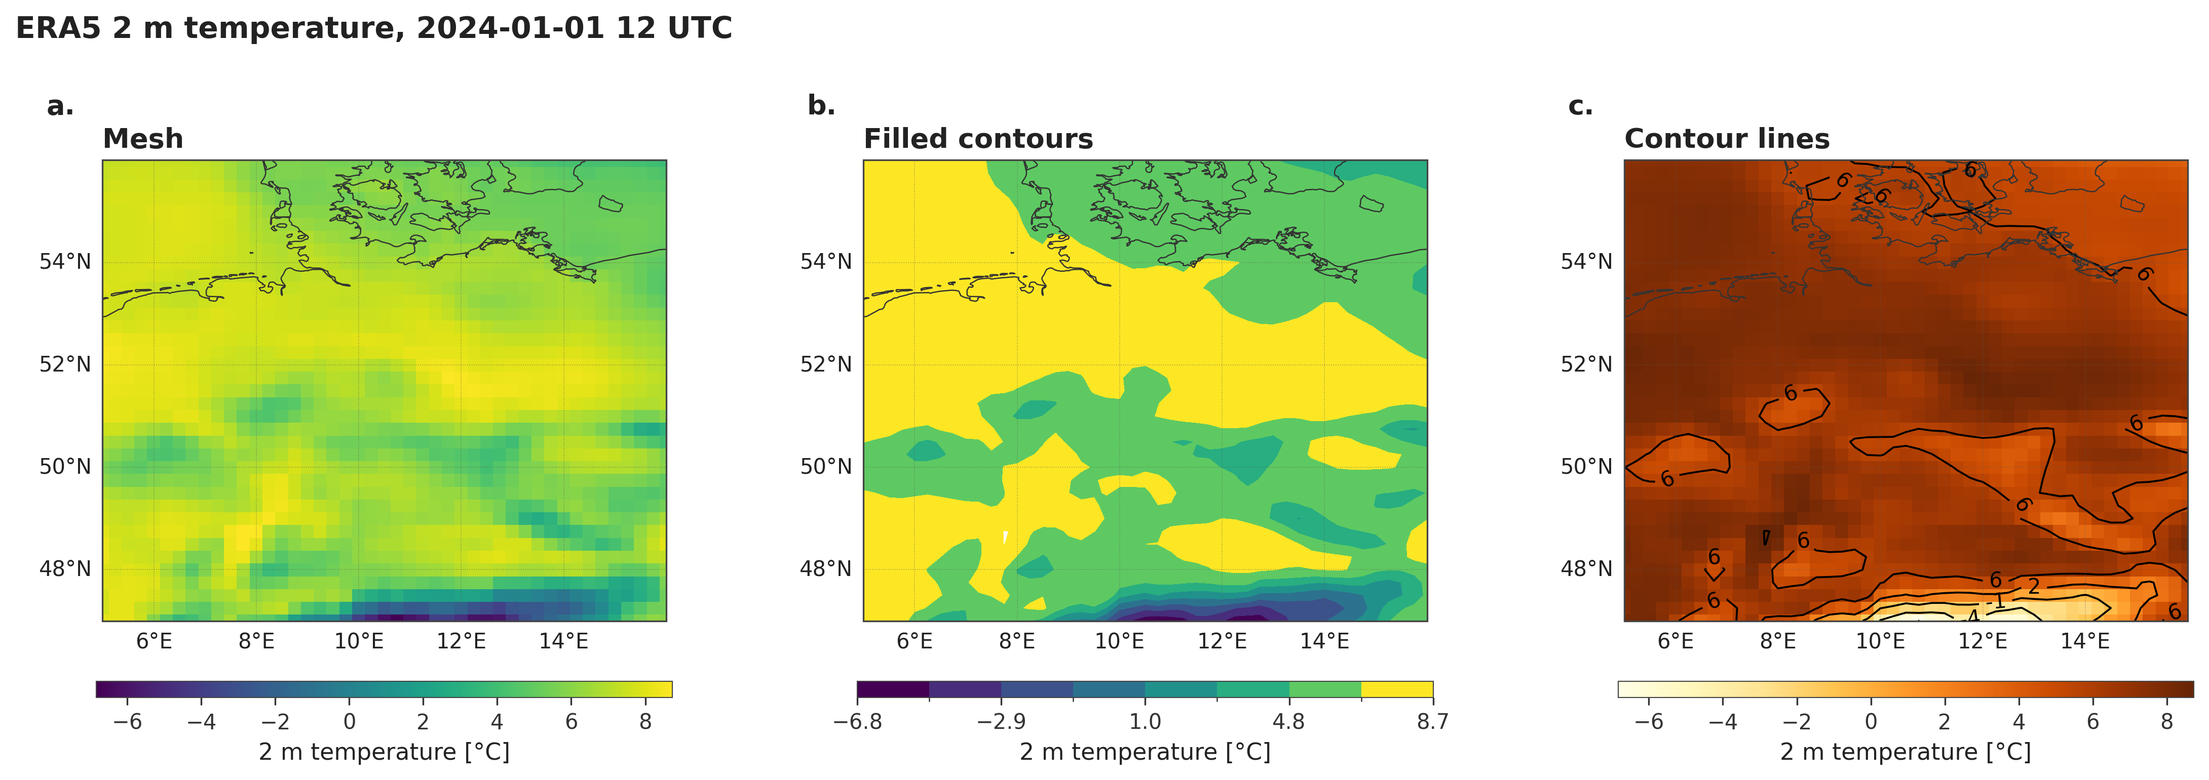
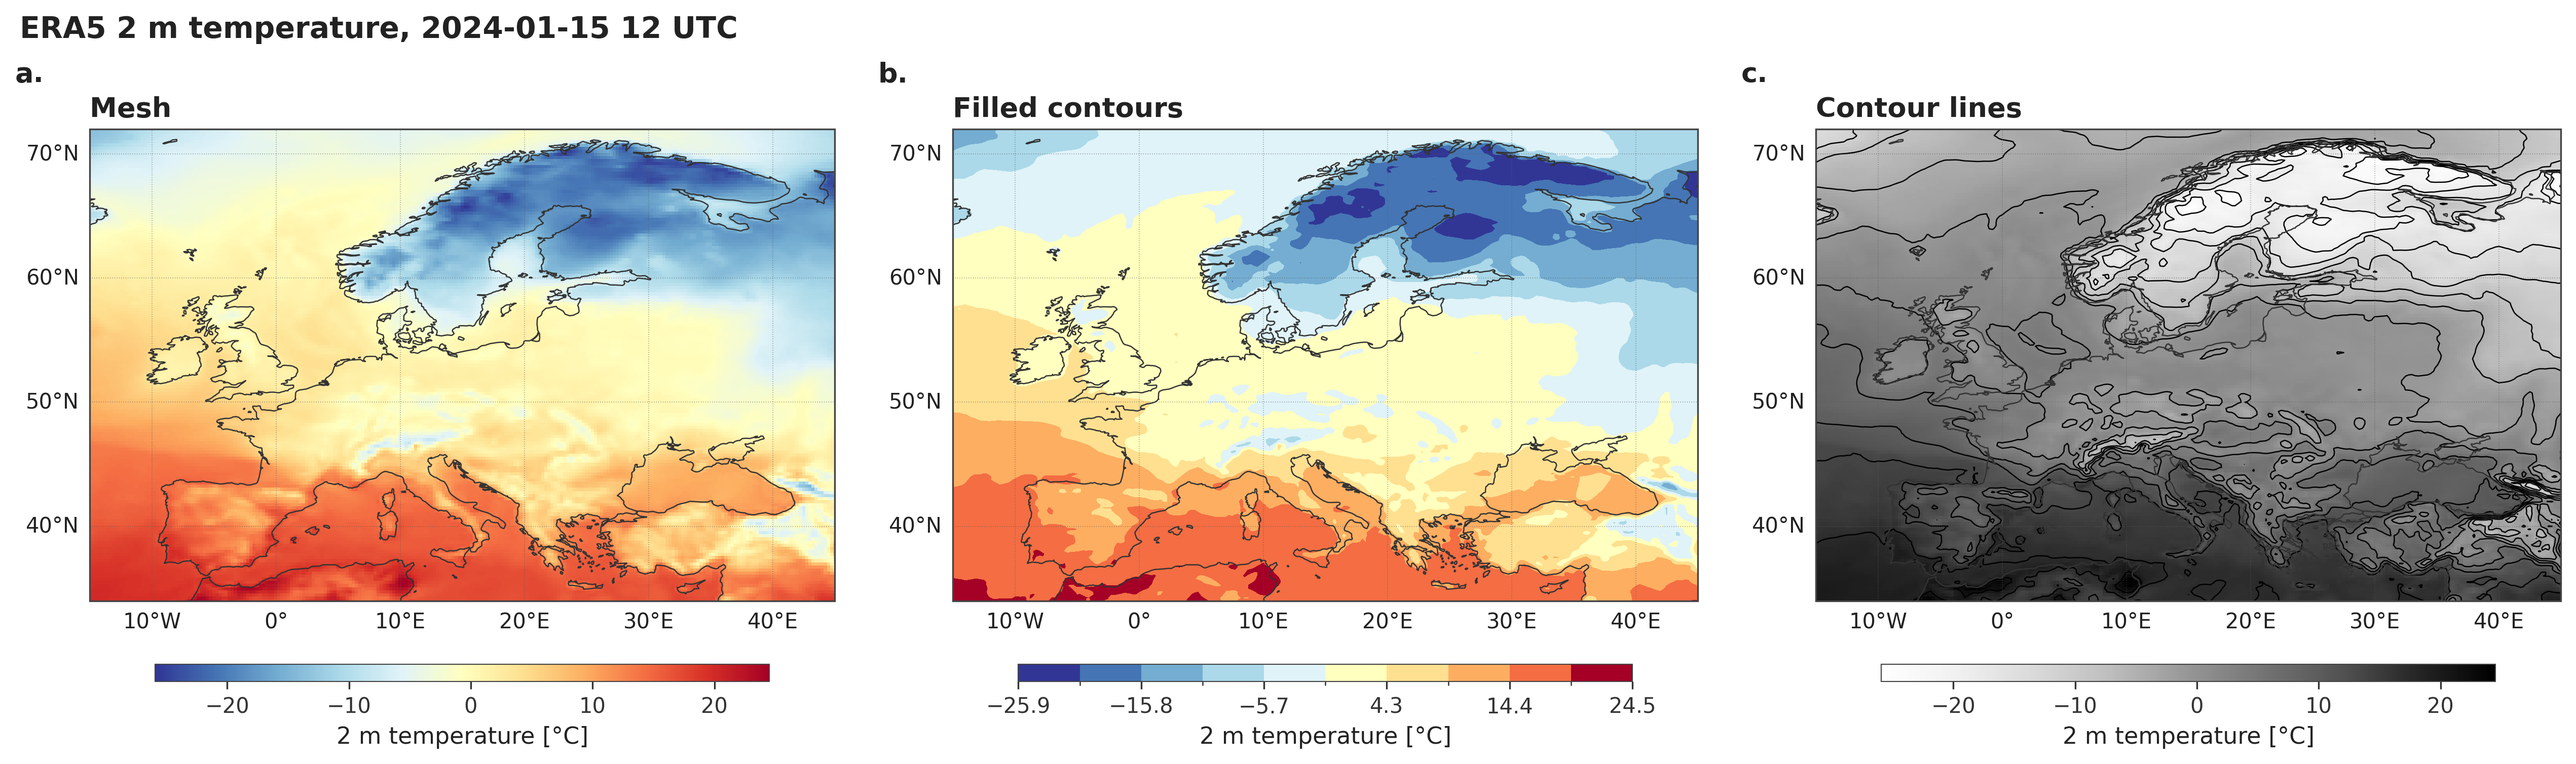
docs: update ERA5 examples for hourly Europe data, add precipitation and resolution examples

diff --git a/examples/common.py b/examples/common.py
@@ -1,21 +1,65 @@
-"""Shared helpers for the example scripts."""
-import sys
+"""Shared helpers for the example scripts: locate and load the ERA5 files.
+
+The data directory can be overridden with the ``ERA5_DATA`` environment
+variable; it must contain ``<variable>/<resolution>/europe/hourly`` folders.
+"""
+import os
 from pathlib import Path
 
 import xarray as xr
 
-DEFAULT_DATA = Path("/Users/fstrnad/projects/era5/data/era5_test.nc")
+DATA = Path(os.environ.get(
+    "ERA5_DATA", "/Users/fstrnad/projects/era5/data/era5-single-levels"))
 FIGURES = Path(__file__).parent / "figures"
 
+# short name -> (folder, unit conversion, new unit)
+VARIABLES = {
+    "t2m": ("2m_temperature", lambda da: da - 273.15, "°C"),
+    "tp": ("total_precipitation", lambda da: da * 1000, "mm"),
+}
+LONG_NAMES = {"t2m": "2 m temperature", "tp": "Hourly precipitation"}
 
-def load_t2m(path=None):
-    """2 m temperature in degC as a lat/lon DataArray (geoutils' coordinate names).
 
-    The data path can be given as the first command line argument.
+def months(var, resolution="0.25deg"):
+    """Months (1-12) of 2024 that are completely downloaded.
+
+    A file counts once its ``.sig.json`` marker exists, so a download that is
+    still running never hands us a half-written file.
     """
-    path = Path(path or (sys.argv[1] if len(sys.argv) > 1 else DEFAULT_DATA))
-    da = xr.open_dataset(path)["t2m"].squeeze(drop=True)
-    da = da.rename(latitude="lat", longitude="lon") - 273.15
-    da.attrs["units"] = "°C"
-    da.name = "2 m temperature"
-    return da.sortby("lat")
+    folder = DATA / VARIABLES[var][0] / resolution / "europe" / "hourly"
+    return sorted(int(p.stem[-2:]) for p in folder.glob("*_2024-??.nc")
+                  if p.with_name(p.name + ".sig.json").exists())
+
+
+def load(var, month=None, resolution="0.25deg"):
+    """Hourly data as a lazy ``time, lat, lon`` DataArray in °C or mm.
+
+    ``month`` is an int, a list of ints, or None for every month available.
+    """
+    folder, convert, unit = VARIABLES[var]
+    month = months(var, resolution) if month is None else month
+    month = [month] if isinstance(month, int) else month
+    files = [DATA / folder / resolution / "europe" / "hourly"
+             / f"{folder}_2024-{m:02d}.nc" for m in month]
+    ds = xr.open_mfdataset(files, chunks={})
+    da = ds[var].rename(valid_time="time", latitude="lat", longitude="lon")
+    da = convert(da.sortby("lat"))
+    da.attrs["units"] = unit
+    da.name = LONG_NAMES[var]
+    return da
+
+
+def label(da):
+    return f"{da.name} [{da.attrs['units']}]"
+
+
+CITIES = {  # name: (lat, lon)
+    "Oslo": (59.9, 10.75), "London": (51.5, -0.1), "Berlin": (52.5, 13.4),
+    "Madrid": (40.4, -3.7), "Rome": (41.9, 12.5), "Athens": (38.0, 23.7),
+}
+
+
+def at_city(da, name):
+    """Nearest grid point of a city, as a time series."""
+    lat, lon = CITIES[name]
+    return da.sel(lat=lat, lon=lon, method="nearest")

diff --git a/examples/04_profiles_and_distribution.py b/examples/04_profiles_and_distribution.py
@@ -1,31 +1,33 @@
-"""Line plots from the same field: profiles with a spread band, and a histogram.
+"""Line plots from hourly data: a year of daily means, the diurnal cycle, and
+the north-south profile in winter and summer.
 
-Run:  python examples/04_profiles_and_distribution.py [path/to/era5.nc]
+Run:  python examples/04_profiles_and_distribution.py
 """
 import geoutils.plotting as gp
-from common import FIGURES, load_t2m
+from common import FIGURES, at_city, load
 
-t2m = load_t2m()
+t2m = load("t2m")  # every month that is downloaded
+cities = ["Oslo", "Berlin", "Madrid"]
 
-res = gp.create_plot(1, 3, figsize=(16, 4.2))
-ax_lat, ax_lon, ax_hist = res["ax"]
+res = gp.create_plot(1, 3, figsize=(18, 4.6))
+ax_year, ax_day, ax_lat = res["ax"]
 
-# north-south profile: mean over longitude with min-max band
-gp.plot_2d(y=t2m.mean("lon"), x=t2m.lat, ax=ax_lat, label="zonal mean",
-           y_lb=t2m.min("lon").values, y_ub=t2m.max("lon").values,
-           xlabel="Latitude [°N]", ylabel="2 m temperature [°C]",
-           title="Zonal mean and range")
+# daily means over the year; months that are not downloaded show as gaps
+daily = [at_city(t2m, c).resample(time="1D").mean().compute() for c in cities]
+gp.plot_2d(y=daily, x=daily[0].time, ax=ax_year, label=cities, lw_arr=[1.2],
+           ylabel="2 m temperature [°C]", title="Daily mean, 2024")
 
-# west-east profiles at three latitudes
-lats = [48, 51, 54]
-gp.plot_2d(y=[t2m.sel(lat=lat, method="nearest") for lat in lats],
-           x=t2m.lon, ax=ax_lon, label=[f"{lat}°N" for lat in lats],
-           xlabel="Longitude [°E]", ylabel="2 m temperature [°C]",
-           title="West-east profiles")
+# mean diurnal cycle in July (UTC)
+july = load("t2m", 7)
+cycles = [at_city(july, c).groupby("time.hour").mean().compute() for c in cities]
+gp.plot_2d(y=cycles, x=cycles[0].hour, ax=ax_day, label=cities,
+           xlabel="Hour of day [UTC]", ylabel="2 m temperature [°C]",
+           title="Diurnal cycle, July")
 
-# distribution of all grid points
-gp.plot_hist(t2m.values.ravel(), ax=ax_hist, fig=res["fig"], nbins=20,
-             xlabel="2 m temperature [°C]", ylabel="Density", density=True,
-             title="Distribution")
+# zonal mean profile, January against July
+profiles = [load("t2m", m).mean(("time", "lon")).compute() for m in (1, 7)]
+gp.plot_2d(y=profiles, x=profiles[0].lat, ax=ax_lat, label=["January", "July"],
+           color_arr=["#0072B2", "#D55E00"], xlabel="Latitude [°N]",
+           ylabel="2 m temperature [°C]", title="Zonal mean")
 
 gp.save_fig(FIGURES / "04_profiles_and_distribution", fig=res["fig"])

diff --git a/examples/05_annotated_map.py b/examples/05_annotated_map.py
@@ -1,33 +1,25 @@
-"""Annotate a map: mark the temperature extremes and a region of interest.
+"""Annotate a map: mark cities with their July mean and outline a region.
 
-Regional maps are drawn in the PlateCarree projection, which is the one that
-crops the view to the extent of the data.
-
-Run:  python examples/05_annotated_map.py [path/to/era5.nc]
+Run:  python examples/05_annotated_map.py
 """
 import geoutils.plotting as gp
-from common import FIGURES, load_t2m
+from common import CITIES, FIGURES, at_city, label, load
 
-t2m = load_t2m()
+t2m = load("t2m", 7).mean("time").compute()
 
 res = gp.plot_map(
-    t2m, plot_type="contourf", levels=12, cmap="Spectral_r",
-    label="2 m temperature [°C]", title="Extremes and a region of interest",
-    plot_borders=True, land_ocean=True, color_bounds="minmax", figsize=(8, 6.5))
+    t2m, plot_type="contourf", levels=12, cmap="Spectral_r", label=label(t2m),
+    title="July 2024 mean 2 m temperature", plot_borders=True,
+    color_bounds="minmax", figsize=(10, 7.5))
 ax = res["ax"]
 
-gp.plot_rectangle(ax, lon_range=(11, 14.5), lat_range=(50, 52),
-                  text="Region of interest", color="k", lw=1.5)
-
-# location of the warmest and coldest grid point
-stacked = t2m.stack(point=("lat", "lon"))
-for point, tag in [(stacked.idxmax("point"), "max"),
-                   (stacked.idxmin("point"), "min")]:
-    lat, lon = point.item()
-    value = float(t2m.sel(lat=lat, lon=lon))
-    ax.plot(lon, lat, "o", mfc="white", mec="k", markersize=8,
+gp.plot_rectangle(ax, lon_range=(5, 16), lat_range=(44, 48),
+                  text="Alps", color="k", lw=1.2)
+for city, (lat, lon) in CITIES.items():
+    value = float(at_city(t2m, city))
+    ax.plot(lon, lat, "o", mfc="white", mec="k", markersize=6,
             transform=gp.get_projection("PlateCarree"))
-    gp.plot_text(ax, f"{tag} {value:.1f} °C", xpos=lon, ypos=lat + 0.3,
-                 color="k", fsize=12, weight="bold")
+    gp.plot_text(ax, f"{city} {value:.0f} °C", xpos=lon, ypos=lat + 0.9,
+                 weight="bold")
 
 gp.save_fig(FIGURES / "05_annotated_map", fig=res["fig"])

diff --git a/examples/01_map_basics.py b/examples/01_map_basics.py
@@ -3,27 +3,26 @@
 The default colour range is the robust 2nd-98th percentile of the data;
 ``color_bounds="minmax"`` shows the full range instead.
 
-Run:  python examples/01_map_basics.py [path/to/era5.nc]
+Run:  python examples/01_map_basics.py
 """
 import geoutils.plotting as gp
-from common import FIGURES, load_t2m
+from common import FIGURES, label, load
 
-t2m = load_t2m()
-label = "2 m temperature [°C]"
+t2m = load("t2m", 1).sel(time="2024-01-15T12:00").compute()
 
-res = gp.create_multi_plot(1, 3, projection="PlateCarree", figsize=(15, 4.5),
-                           title="ERA5 2 m temperature, 2024-01-01 12 UTC")
+res = gp.create_multi_plot(1, 3, projection="PlateCarree", figsize=(17, 4.4),
+                           title="ERA5 2 m temperature, 2024-01-15 12 UTC")
 mesh, filled, lines = res["ax"]
 
-gp.plot_map(t2m, ax=mesh, title="Mesh", label=label, color_bounds="minmax")
+gp.plot_map(t2m, ax=mesh, title="Mesh", cmap="RdYlBu_r", label=label(t2m),
+            color_bounds="minmax")
 gp.plot_map(t2m, ax=filled, plot_type="contourf", title="Filled contours",
-            label=label, color_bounds="minmax", levels=8)
+            cmap="RdYlBu_r", label=label(t2m), color_bounds="minmax", levels=10)
 
-# contour lines drawn on top of a pale mesh; plot_array adds to an existing map
-gp.plot_map(t2m, ax=lines, title="Contour lines", cmap="YlOrBr", label=label,
-            color_bounds="minmax", alpha=0.3)
+# contour lines on a pale mesh; plot_array adds to an existing map
+gp.plot_map(t2m, ax=lines, title="Contour lines", cmap="Greys", label=label(t2m),
+            color_bounds="minmax", alpha=0.25)
 gp.plot_array(t2m, ax=lines, plot_type="contour", projection="PlateCarree",
-              color="k", levels=5, color_bounds="minmax", lw=0.9, clabel=True,
-              clabel_fmt="%.0f")
+              color="k", levels=14, color_bounds="minmax", lw=0.6)
 
 gp.save_fig(FIGURES / "01_map_basics", fig=res["fig"])

diff --git a/examples/03_multipanel_shared_colorbar.py b/examples/03_multipanel_shared_colorbar.py
@@ -1,25 +1,17 @@
-"""A multi-panel figure sharing one colorbar, with a different map extent each.
+"""Four seasons in one figure: monthly means sharing one colour scale.
 
-All panels use the same colour limits, so the colours can be compared directly.
-
-Run:  python examples/03_multipanel_shared_colorbar.py [path/to/era5.nc]
+Run:  python examples/03_multipanel_shared_colorbar.py
 """
 import geoutils.plotting as gp
-from common import FIGURES, load_t2m
+from common import FIGURES, label, load
 
-t2m = load_t2m()
-regions = {
-    "North Sea coast": dict(lat_range=(52, 56), lon_range=(5, 11)),
-    "Eastern Germany": dict(lat_range=(50, 54), lon_range=(10, 16)),
-    "Central Germany": dict(lat_range=(49, 53), lon_range=(7, 13)),
-    "Alpine foreland": dict(lat_range=(47, 51), lon_range=(8, 14)),
-}
-
-res = gp.create_multi_plot(2, 2, projection="PlateCarree", figsize=(10, 8),
-                           title="Regional views, common colour scale")
-for ax, (name, extent) in zip(res["ax"], regions.items()):
-    im = gp.plot_map(t2m, ax=ax, plot_type="contourf", levels=8, title=name,
-                     vmin=-7, vmax=9, cmap="viridis", **extent)
-gp.add_colorbar(im, res["fig"], "2 m temperature [°C]", multi_plots=True)
+res = gp.create_multi_plot(2, 2, projection="PlateCarree", figsize=(13, 9),
+                           title="Monthly mean 2 m temperature, 2024")
+names = {1: "January", 4: "April", 7: "July", 10: "October"}
+for ax, (month, name) in zip(res["ax"], names.items()):
+    t2m = load("t2m", month)
+    im = gp.plot_map(t2m.mean("time").compute(), ax=ax, plot_type="contourf",
+                     levels=12, title=name, vmin=-20, vmax=40, cmap="Spectral_r")
+gp.add_colorbar(im, res["fig"], label(t2m), multi_plots=True)
 
 gp.save_fig(FIGURES / "03_multipanel_shared_colorbar", fig=res["fig"])

diff --git a/examples/02_anomalies.py b/examples/02_anomalies.py
@@ -1,21 +1,18 @@
-"""Anomalies on a diverging colormap, with the default symmetric colour range.
+"""Weather anomalies: one day's mean against its month, on a diverging colormap.
 
-Run:  python examples/02_anomalies.py [path/to/era5.nc]
+Diverging colormaps get colour limits symmetric about zero automatically.
+
+Run:  python examples/02_anomalies.py
 """
 import geoutils.plotting as gp
-from common import FIGURES, load_t2m
+from common import FIGURES, load
 
-t2m = load_t2m()
-anom = t2m - t2m.mean()          # departure from the area mean
-zonal_anom = t2m - t2m.mean("lon")  # departure from each latitude's mean
-
-res = gp.create_multi_plot(1, 2, projection="PlateCarree", figsize=(11, 4.5),
-                           title=f"2 m temperature anomalies (area mean {float(t2m.mean()):.1f} °C)")
-# diverging colormaps get colour limits symmetric about zero automatically
-gp.plot_map(anom, ax=res["ax"][0], cmap="RdBu_r", plot_type="contourf",
-            levels=10, label="Anomaly from area mean [K]", title="Area mean removed")
-gp.plot_map(zonal_anom, ax=res["ax"][1], cmap="RdBu_r", plot_type="contourf",
-            levels=10, label="Anomaly from zonal mean [K]",
-            title="Zonal mean removed")
+res = gp.create_multi_plot(1, 2, projection="PlateCarree", figsize=(13, 5.2),
+                           title="Daily-mean 2 m temperature anomaly from the monthly mean")
+for ax, (month, day) in zip(res["ax"], [(1, "2024-01-15"), (7, "2024-07-15")]):
+    t2m = load("t2m", month)
+    anomaly = (t2m.sel(time=day).mean("time") - t2m.mean("time")).compute()
+    gp.plot_map(anomaly, ax=ax, cmap="RdBu_r", plot_type="contourf", levels=12,
+                title=day, label="Anomaly [K]")
 
 gp.save_fig(FIGURES / "02_anomalies", fig=res["fig"])

diff --git a/examples/07_resolution_comparison.py b/examples/07_resolution_comparison.py
@@ -1,0 +1,28 @@
+"""What a coarser grid loses: the Alps at 0.25° and 0.5°.
+
+The 0.5° files hold 6-hourly data for 1-3 July 2024 only. Their grid points
+coincide with every second 0.25° point, so the comparison is made by
+interpolating the coarse field back onto the fine grid.
+
+Run:  python examples/07_resolution_comparison.py
+"""
+import geoutils.plotting as gp
+from common import FIGURES, label, load
+
+when = "2024-07-01T12:00"
+alps = {"lat_range": (43, 49), "lon_range": (4, 17)}
+area = {"lat": slice(43, 49), "lon": slice(4, 17)}
+fine = load("t2m", 7, "0.25deg").sel(time=when).compute()
+coarse = load("t2m", 7, "0.5deg").sel(time=when).compute()
+lost = coarse.interp(lat=fine.lat, lon=fine.lon) - fine
+
+res = gp.create_multi_plot(1, 3, projection="PlateCarree", figsize=(17, 3.9),
+                           title=f"2 m temperature, {when.replace('T', ' ')} UTC")
+shown = fine.sel(**area)
+for ax, data, name in [(res["ax"][0], fine, "0.25°"), (res["ax"][1], coarse, "0.5°")]:
+    gp.plot_map(data, ax=ax, title=name, cmap="Spectral_r", vmin=float(shown.min()),
+                vmax=float(shown.max()), label=label(data), **alps)
+gp.plot_map(lost, ax=res["ax"][2], title="0.5° interpolated minus 0.25°",
+            cmap="RdBu_r", vmin=-3, vmax=3, label="Difference [K]", **alps)
+
+gp.save_fig(FIGURES / "07_resolution_comparison", fig=res["fig"])

diff --git a/examples/06_precipitation.py b/examples/06_precipitation.py
@@ -1,0 +1,23 @@
+"""Precipitation: monthly totals and the number of wet days.
+
+Run:  python examples/06_precipitation.py
+"""
+import geoutils.plotting as gp
+from common import FIGURES, load
+
+res = gp.create_multi_plot(1, 3, projection="PlateCarree", figsize=(17, 4.4),
+                           title="ERA5 total precipitation, 2024")
+jan, jul, wet = res["ax"]
+
+for ax, month, name in [(jan, 1, "January"), (jul, 7, "July")]:
+    total = load("tp", month).sum("time").compute()
+    gp.plot_map(total, ax=ax, plot_type="contourf", levels=10, cmap="YlGnBu",
+                vmin=0, vmax=250, title=f"{name} total", label="Precipitation [mm]",
+                unset_sci=True)
+
+daily = load("tp", 7).resample(time="1D").sum()
+wet_days = (daily >= 1).sum("time").compute()  # days with at least 1 mm
+gp.plot_map(wet_days, ax=wet, plot_type="contourf", levels=10, cmap="BuPu",
+            vmin=0, vmax=30, title="July wet days (≥ 1 mm)", label="Days")
+
+gp.save_fig(FIGURES / "06_precipitation", fig=res["fig"])

diff --git a/examples/README.md b/examples/README.md
@@ -1,17 +1,24 @@
 # Plotting examples
 
-Scripts using `geoutils.plotting` on the ERA5 test file
-(`/Users/fstrnad/projects/era5/data/era5_test.nc`, 2 m temperature over Central
-Europe). Pass another file as the first argument; it needs a `t2m` variable.
-Run from anywhere, figures are written to `examples/figures/`.
+Scripts using `geoutils.plotting` on the ERA5 single-level data in
+`/Users/fstrnad/projects/era5/data/era5-single-levels` (hourly 2 m temperature
+and total precipitation for Europe, 2024, 0.25°; a few 6-hourly 0.5° fields).
+Set `ERA5_DATA` to use another copy. Run from anywhere, e.g.
+`python examples/03_multipanel_shared_colorbar.py`; figures go to
+`examples/figures/`.
 
 | Script | Shows |
 |---|---|
 | `01_map_basics.py` | mesh, filled contours, contour lines; `color_bounds` |
-| `02_anomalies.py` | diverging colormap with automatic symmetric limits |
-| `03_multipanel_shared_colorbar.py` | `create_multi_plot`, regional extents, one shared colorbar |
-| `04_profiles_and_distribution.py` | `plot_2d` with a spread band, several series, `plot_hist` |
-| `05_annotated_map.py` | `plot_rectangle`, `plot_text`, markers on a map |
+| `02_anomalies.py` | daily anomalies on a diverging colormap, symmetric limits |
+| `03_multipanel_shared_colorbar.py` | four seasons, `create_multi_plot`, one shared colorbar |
+| `04_profiles_and_distribution.py` | `plot_2d`: daily time series with gaps, diurnal cycle, zonal profile |
+| `05_annotated_map.py` | city markers and labels, `plot_rectangle` |
+| `06_precipitation.py` | monthly totals and wet-day counts, fixed colour limits |
+| `07_resolution_comparison.py` | 0.25° against 0.5° over the Alps, and what interpolation loses |
 
-`common.py` loads the data and renames the coordinates to the `lat`/`lon`
-names geoutils expects.
+`common.py` finds and loads the files lazily (renaming the coordinates to the
+`time`/`lat`/`lon` that geoutils expects, converting to °C and mm). When no month is
+given, only months whose `.sig.json` marker exists are loaded, so a download
+that is still running is safe; incomplete months show up as gaps. Scripts that
+ask for a specific month need that file to be complete.
